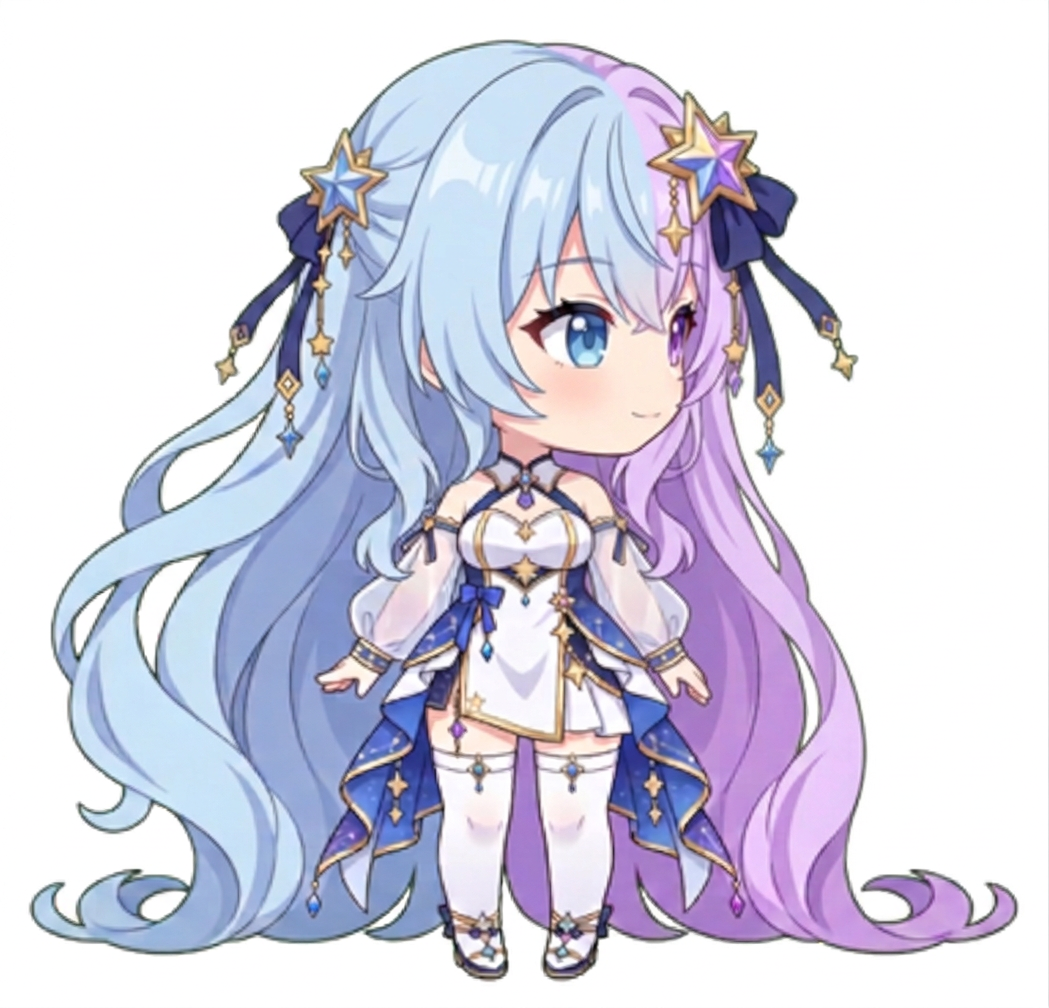
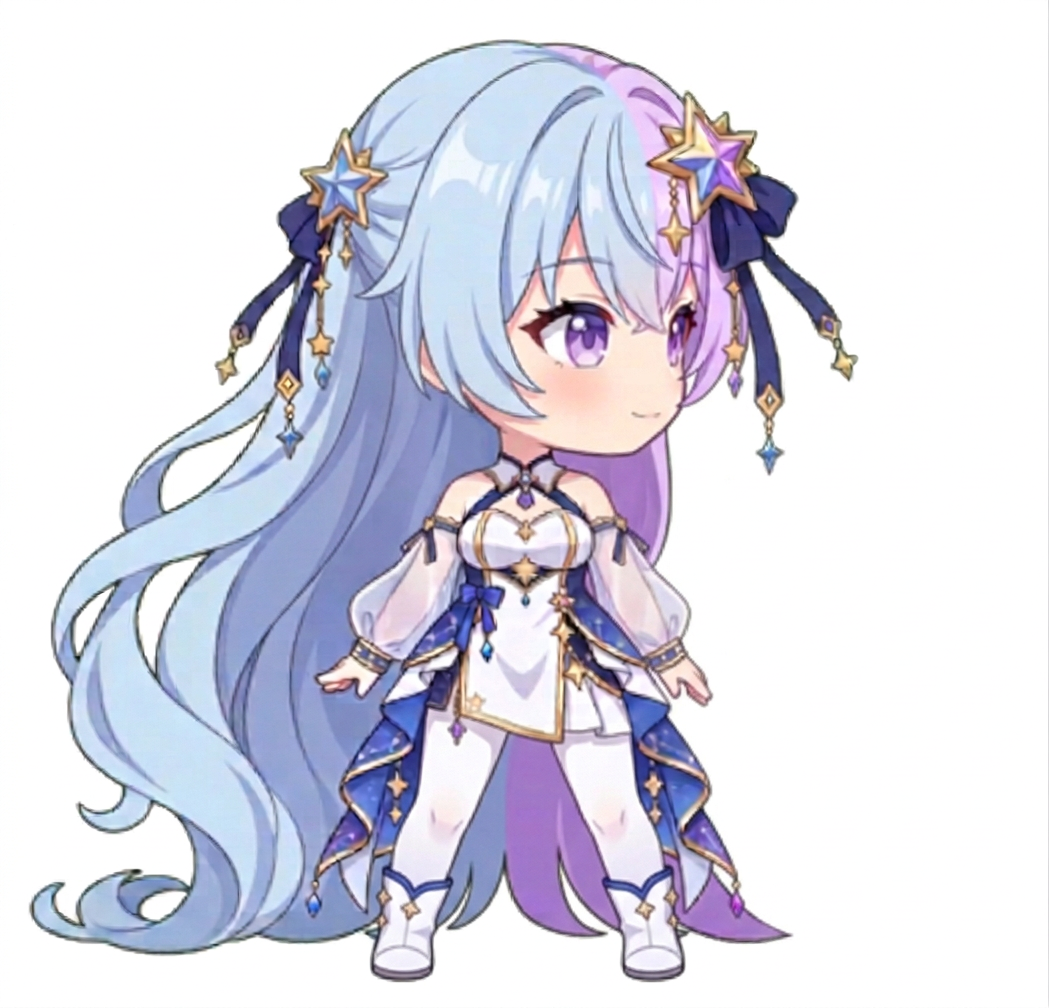
走路 v14 全量铺开：8 位角色全部换成 8 帧行走/待机图集
- 重新生成 gemini / claude / kimi / qwen / zai / doubao 的直立侧 3/4 立绘（腿可见、短发不遮脸）
- walk_cycle_v14 增加 split / block 两种下半身驱动：
  split（whale/gpt/claude/kimi）左右腿反相抬脚摆腿；
  block（gemini/qwen/zai/doubao，立绘里两腿并成一块）整块以髋为支点斜切摆动，剪切不撕缝
- 腿横向范围按脚踝真实轮廓自适应，去掉裙摆/裤腿边缘的竖向残条
- 8 角色共 19 张图集落盘 assets/ai-girls/walk-v14/，渲染链路优先读成品
- 修 _bench 图集列数判定（8 列，否则坐姿图集抽到空帧）
- atlas_metrics 同步重测；walk-v14 README 记录规格、模式与来源

diff --git a/assets/ai-girls/walk-v14/README.md b/assets/ai-girls/walk-v14/README.md
@@ -8,33 +8,48 @@
 
 ```
 walk-v14/
-  source/                     本轮重新生成的侧 3/4 立绘（AI 生成，白底）
-    whale.png gpt.png ...     384×416 单元格归一化前的原图
+  source/                     本轮重新生成的侧 3/4 立绘（AI 生成，白底，8 位角色各一张）
   <atlas>.png                 8 格 × 384×416 成品图集（透明 PNG）
+  preview/walk_v14_preview.png 两套图集的 8 帧总览图
 ```
 
 单格：`384 × 416`，脚底基线 `y = 406`，角色高度 `372px`，水平居中。
 图集宽度固定 `8 × 384 = 3072`，第 0 列起顺序播放，循环。
 
-## 本轮已切换的图集
+## 已切换的图集（全部 8 位角色）
 
-| 图集 | 素材 | 说明 |
+| 角色 | walk | idle | 立绘来源 |
+| --- | --- | --- | --- |
+| 鲸鱼娘 | `whale_walk_side_2leg` | `whale_idle_side_pet` | `source/whale.png` |
+| 龙女 GPT | `gpt_walk_2leg` | `gpt_idle_pet` | `source/gpt.png` |
+| Gemini | `gemini_walk_2leg` | `gemini_idle_pet` | `source/gemini.png` |
+| Claude | `claude_walk_2leg` | `claude_idle_pet` | `source/claude.png` |
+| Kimi | `kimi_walk_2leg` | `kimi_idle_pet` | `source/kimi.png` |
+| Qwen | `qwen_walk_2leg` | `qwen_idle_pet` | `source/qwen.png` |
+| Z.AI | `zai_walk_2leg` | `zai_idle_pet` | `source/zai.png` |
+| 豆包 | `doubao_walk_side_2leg` | `doubao_idle_side_pet` | `source/doubao.png` |
+
+情绪变体 `whale_walk_happy_2leg` / `whale_walk_sad_2leg` / `whale_idle_happy_pet` / `whale_idle_sad_pet`
+与上表鲸鱼娘同体同帧（情绪差异交给表演层与 emoji 气泡，不再换一套体型不一致的立绘）。
+
+仍走 v13 蒙皮的三个图集（姿势特殊、暂未重绘）：`whale_seat_side_bench`（坐长椅）、
+`gpt_push_walk_2leg` / `gpt_push_idle_pet`（双手推山）。
+
+## 两套下半身驱动模式
+
+| 模式 | 适用 | 做法 |
 | --- | --- | --- |
-| `whale_walk_side_2leg` | `source/whale.png` | 鲸鱼娘侧 3/4 八帧步态 |
-| `whale_idle_side_pet` | 同上 | 同体呼吸待机，走停零跳变 |
-| `whale_walk_happy_2leg` / `whale_walk_sad_2leg` | 同 `whale_walk_side_2leg` | 步态与体型完全一致，情绪差异交给表演层 |
-| `whale_idle_happy_pet` / `whale_idle_sad_pet` | 同 `whale_idle_side_pet` | 同上 |
-| `gpt_walk_2leg` | `source/gpt.png` | 龙女 GPT 八帧步态 |
-| `gpt_idle_pet` | 同上 | 同体呼吸待机 |
+| `split` | 立绘里两条腿本来就分开、能看见缝（whale / gpt / claude / kimi） | 按"腿间山谷列"劈成左右腿两层，各自以髋为支点抬脚 + 前后摆 + 脚掌微转，180° 反相 |
+| `block` | 立绘里两腿并拢成一整块（gemini / qwen / zai / doubao 的长裙、长裤、长发） | 下半身整块以髋为支点**斜切（shear）**摆动 + 轻微抬落。剪切不会撕出缝隙，读感是 chibi 小碎步，绝不破裙 |
 
-其余角色（gemini / claude / kimi / qwen / zai / doubao）暂时仍走 `walk_rig_builder.mjs` 的
-v13 蒙皮步态，等待按同一「腿可见」规格重画侧面立绘后再切换。
+两种模式都把腿层统一裁剪在裙摆线以下：抬腿时腿自然"滑进"裙子，几何上不可能出现悬空残鞋。
 
 ## 生成方式
 
 ```bash
 # 1. 重新烘图集（改 source/ 或调参后跑）
-node tools/remotion-engine/build_walk_v14.mjs whale gpt
+node tools/remotion-engine/build_walk_v14.mjs            # 全部 8 位
+node tools/remotion-engine/build_walk_v14.mjs whale gpt  # 只做指定角色
 
 # 2. 审阅：120ms 逐帧播放，可点单帧定格
 node tools/remotion-engine/walk_preview.mjs --port 8099
@@ -43,19 +58,20 @@ node tools/remotion-engine/walk_preview.mjs --port 8099
 算法在 `tools/remotion-engine/walk_cycle_v14.mjs`：
 
 1. **抠图**：只对与画布边缘连通的浅色背景做 flood fill，白裙 / 白袜 / 白发不会被吃掉。
-2. **分层**：上半身（含裙摆、尾巴）一层；下半身按脚底重心 `cx` 切成左右两腿，
-   尾巴这类偏蓝紫的附属物判定为非腿像素，不会跟着摆动。
-3. **步态**：8 个固定姿态，左右腿 180° 反相；`lift` 抬脚、`swing` 前后摆、`toe` 脚掌微转，
-   站立腿不动、抬起的腿离地。上半身起伏 `bodyBob` 由 4π 相位算出（每轮两次重心下沉）。
-4. **遮罩**：腿层统一裁剪在裙摆线以下，抬腿时腿自然「滑进」裙摆里，绝不破裙、绝不出现第三条腿。
+2. **分层**：上半身（含裙摆、尾巴、长发）一层；腿像素按脚底重心 `cx` 与脚踝轮廓自动定横向范围，
+   尾巴 / 披风这类偏蓝紫附属物判为非腿像素，不跟着腿摆动。
+3. **步态**：8 个固定姿态；`lift` 抬脚、`swing` 前后摆、`toe` 脚掌微转；
+   上半身起伏 `bodyBob` 由 4π 相位算出（每轮两次重心下沉）。
+4. **遮罩**：腿层统一裁剪在裙摆线以下。
 
-## 与 v13 的两个关键修正
+## 与 v13 的三个关键修正
 
-- **帧数对齐**：v13 生成 16 格图集，但引擎按 `_2leg` 判定只播 8 列，
-  等于每轮只播到前 4 个姿态（0,0,1,1,2,2,3,3），看上去就是「抖腿不迈步」。
-  v14 一律 8 格 8 姿态，`walk_rig_builder.mjs` 的 `WALK_FRAMES` 也同步改为 8。
-- **腿与裙的关系**：不再把整条腿切出来做双骨骼蒙皮（会露关节缝、灰腿鬼影、悬空鞋），
-  改为「整层腿 + 裙摆裁剪」，几何上不可能出现残腿。
+- **帧数对齐**：v13 生成 16 格图集，引擎按 `_2leg` 只播 8 列，等于每轮只播到前 4 个姿态
+  （0,0,1,1,2,2,3,3）→ 看上去是抖腿不迈步。v14 一律 8 格 8 姿态，`WALK_FRAMES = 8`；
+  `_bench` 图集也纳入 8 列判定。
+- **列数推导**：`character_motion.mjs` 过去只在写了 `atlas` 时才按名字推列数，
+  仅由 `locomotion` 预设推导时会退回 16 列 → 抽到画布外的空格子。现在按"预设解析后的真实图集名"判定。
+- **腿与裙的关系**：不再把整条腿切出来做双骨骼蒙皮（会露关节缝、灰腿鬼影、悬空鞋）。
 
 ## 素材来源
 

diff --git a/AGENTS.md b/AGENTS.md
@@ -15,7 +15,7 @@
 ## 导演与稳定画面
 
 用户提到画面抖动、站桩、镜头重复、走路怪异/多腿或重做视频时，先读 `.claude/skills/day-series-director/SKILL.md` 与 `agent.md` 第 33–34 条。按当前口播写音画双栏/逐镜卡，可基于 Day 系列通用单集模板 `tools/engine/day_episode.template.spec.mjs` 编写 `directorVersion=1` 的 spec：
-- **通用步态与同体待机**：角色走位优先声明 `locomotion: 'side_walk' | 'walk' | 'happy_walk' | 'sad_walk' | 'push_walk' | 'idle' | 'sit_bench'` 配合 `walk` / `track`。步态图集一律 **8 帧 / 每帧 120ms（一轮 0.96s 双步周期）**，与 `tqlearning/ai-girl-chatgpt-pets` 的 `running-right` 同规格；`whale` / `gpt` 已切到 `assets/ai-girls/walk-v14/` 的 v14 八帧图集（AI 重绘直立体侧立绘 + 抬脚/摆腿/脚掌微转 + 裙摆裁剪，走停同体零跳变），其余角色仍为 v13 蒙皮步态，后续按同规格重画。**严禁再把 16 格图集当成 8 列播放**（会只播半个周期，看上去是抖腿不迈步）。审阅：`node tools/remotion-engine/walk_preview.mjs --port 8099`。10 骨高清网格主角亦可使用 `action: 'walk_natural' | 'stroll_calm' | 'step_back' | 'sit_settle'`。
+- **通用步态与同体待机**：角色走位优先声明 `locomotion: 'side_walk' | 'walk' | 'happy_walk' | 'sad_walk' | 'push_walk' | 'idle' | 'sit_bench'` 配合 `walk` / `track`。步态图集一律 **8 帧 / 每帧 120ms（一轮 0.96s 双步周期）**，与 `tqlearning/ai-girl-chatgpt-pets` 的 `running-right` 同规格；全部 8 位角色（whale / gpt / gemini / claude / kimi / qwen / zai / doubao）已切到 `assets/ai-girls/walk-v14/` 的 v14 八帧图集（AI 重绘的直立侧 3/4 立绘 + `split` 左右腿反相抬摆或 `block` 整块斜切摆动 + 裙摆裁剪，走停同体零跳变）；仅 `whale_seat_side_bench`（坐长椅）与 `gpt_push_*`（推山）仍是 v13 特殊姿势。**严禁再把 16 格图集当成 8 列播放**（会只播半个周期，看上去是抖腿不迈步）。审阅：`node tools/remotion-engine/walk_preview.mjs --port 8099`。10 骨高清网格主角亦可使用 `action: 'walk_natural' | 'stroll_calm' | 'step_back' | 'sit_settle'`。
 - **全局零视频水印新规**：所有当前及今后新制作的视频与发布封面（MV、Day 正传、横/竖屏）一律不加右上角水印或常驻角标；此前已归档的历史成片保留原样不动。
 - 默认固定机位或每镜最多一次有动机运镜、`idleMotion` 可关闭，不用整体晃动代替事件；视觉姿态与手掌接触校准分开，严禁篡改固定 PNG 五官。
 Day12当前指定原音源版入口为 `Day12/README.md`、`Day12/Day12有声分镜.md` 与 `tools/day12制作/episode.production.spec.mjs`，实际结果看同目录 `final_check.json`（不可脱离成片SHA引用）。原25行锁稿不改；指定音源未读首句，因此有独立24行视频字幕稿。用真实ASR整词区间绑定、关闭聚光灯、固定机位、独立stem混音验收；不声称音素级对齐、手纸真实接触或真人完整听审。`episode.spec.mjs`及四段无声样片是历史planning方案，不能替代当前有声版验收。

diff --git a/tools/remotion-engine/README.md b/tools/remotion-engine/README.md
@@ -18,7 +18,7 @@
 - `frame_evaluator.mjs`：纯 ESM 逐帧世界与骨骼交互求解器（浏览器 Bundle 与 Node 单测共用）
 - `mv_adapter.mjs`：歌词 MV 声明式规格适配器
 - `walk_rig_builder.mjs`：**8 帧步态 / 待机图集注册表与构建器**（`WALK_FRAMES = 8`，8 帧 × 120ms = 0.96s 双步周期，对齐 `tqlearning/ai-girl-chatgpt-pets` 的 `running-right`；仓库内 `assets/ai-girls/walk-v14/*.png` 有预烘成品时优先直接读取）
-- `walk_cycle_v14.mjs` + `build_walk_v14.mjs`：**v14 侧 3/4 八帧行走生成器**（AI 重绘的直立体侧立绘 → 上身/左右腿分层 → 抬脚·前后摆·脚掌微转八姿态 → 裙摆裁剪，绝无灰腿鬼影 / 断膝 / 第三条腿）；`node tools/remotion-engine/build_walk_v14.mjs whale gpt` 落盘到 `assets/ai-girls/walk-v14/`
+- `walk_cycle_v14.mjs` + `build_walk_v14.mjs`：**v14 侧 3/4 八帧行走生成器**（AI 重绘的直立体侧立绘 → 上身/腿分层 → 八姿态；腿分开的角色走 `split` 左右腿反相抬摆，腿并拢成一整块的角色走 `block` 斜切摆动；统一裙摆裁剪，绝无灰腿鬼影 / 断膝 / 第三条腿）；`node tools/remotion-engine/build_walk_v14.mjs` 落盘全部 8 位角色到 `assets/ai-girls/walk-v14/`
 - `walk_preview.mjs`：走路图集审阅台（`node tools/remotion-engine/walk_preview.mjs --port 8099`，120ms 逐帧播放 + 单帧定格）
 - `render_cli.mjs`：支持 `--bundle-check`、`--dry-run`、本地静态资源 HTTP 服务与 MP4/PNG 渲染的统一 CLI
 - `components/`：`WorldCamera.jsx`、`StageSetView.jsx`、`RiggedCharacter.jsx`、`InteractivePropsLayer.jsx`、`TransitionOverlay.jsx`、`LyricAndSubtitleLayer.jsx`
